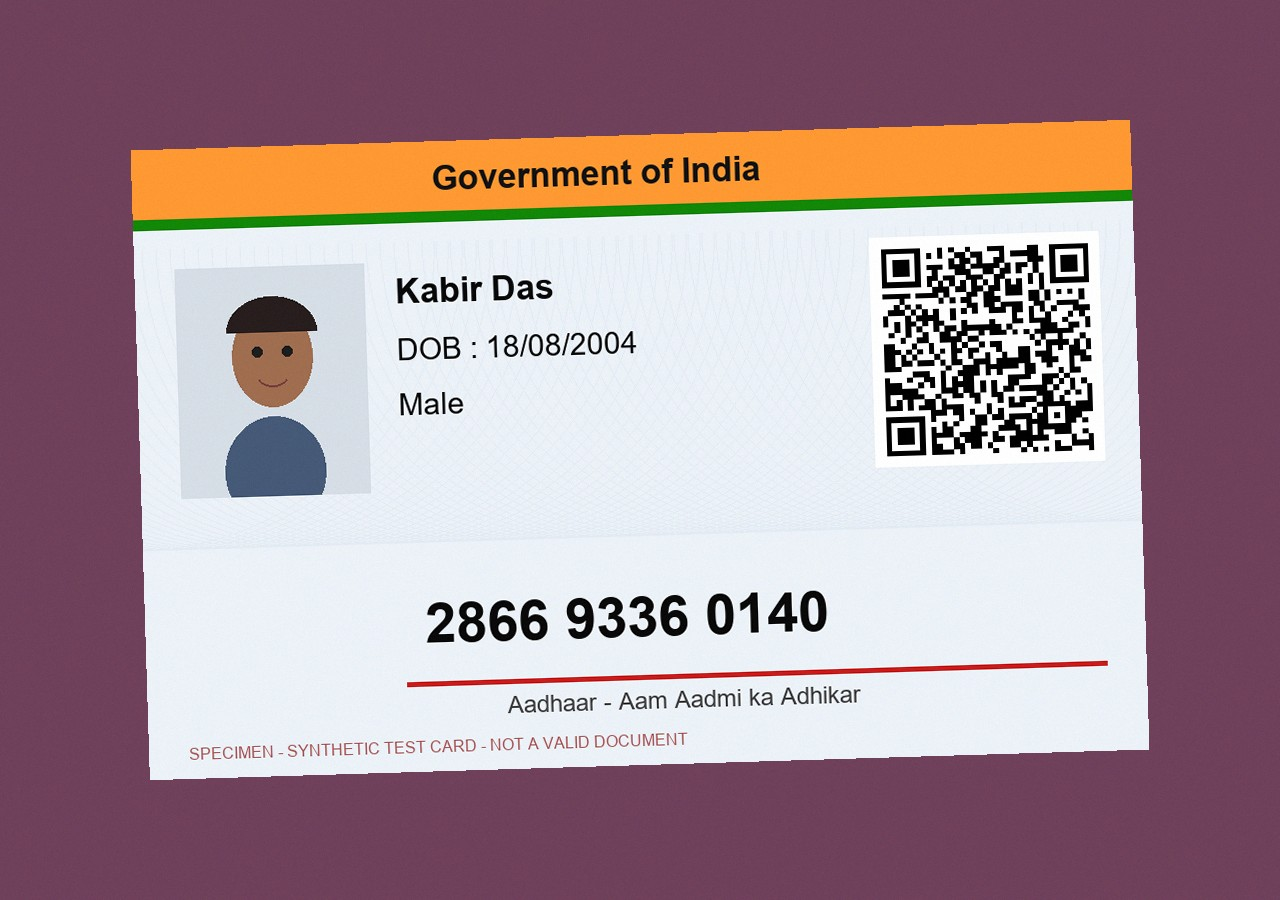
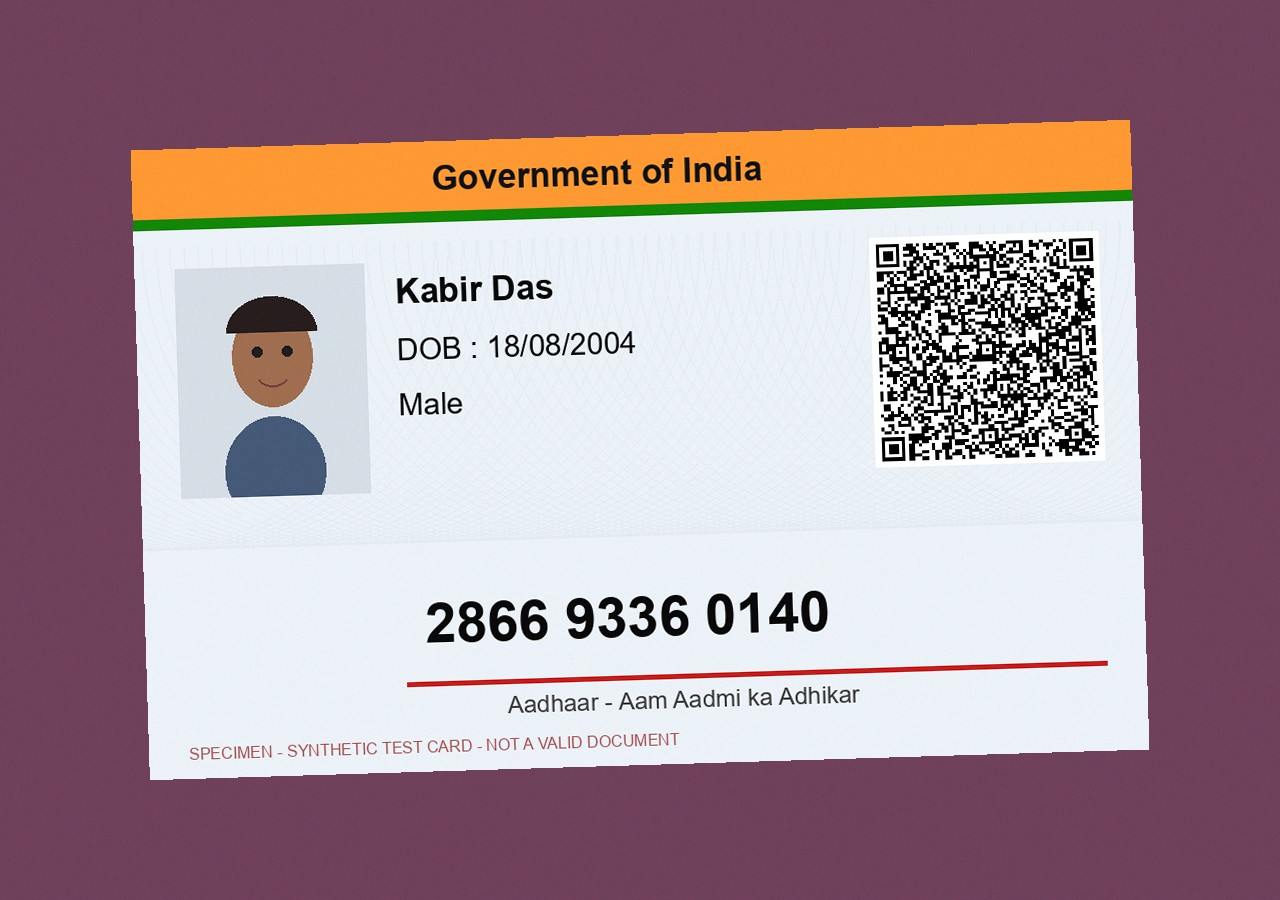
verify Aadhaar QR signatures, guard the organizer API, add async status
Secure QR signature verification never ran. Two reasons: the sample
generator emitted 256 zero bytes as a placeholder signature, and
parse_secure only extracted a signature when len(data) > text + 256,
so a photo-less payload never had one to check. The strongest signal
in the pipeline silently reported "not checked" on every case.

- scripts/make_dev_cert.py generates a dev signing key; the sample
  generator signs with it and UIDAI_CERT_PATH points at the cert, so
  the real verification path runs offline. Production swaps in UIDAI's
  certificate and these payloads correctly stop verifying.
- Fix the off-by-one so photo-less payloads are verified.
- A test proves an edited payload fails verification.

Turning verification on exposed a false positive: Tesseract read
"Arjun Ramesh" as "Cyl", and that garbage raised a critical
"name doesn't match QR" tamper signal against a genuine participant.
An unread field is now an extraction failure, not tamper evidence, and
a UIDAI-signed name outranks a low-confidence OCR read.

Also: ORGANIZER_KEY guards the review queue, case detail, artifacts,
metrics and audit log, which exposed every applicant's details with no
auth at all; and GET /v1/verifications/{id}/status lets an async caller
poll instead of depending on a webhook it may have missed.

diff --git a/app/api.py b/app/api.py
@@ -34,6 +34,7 @@ logging.basicConfig(level=logging.INFO, format="%(asctime)s %(levelname)s %(name
 log = logging.getLogger("trustgate")
 
 API_KEY = os.getenv("API_KEY", "").split("#")[0].strip()
+ORGANIZER_KEY = os.getenv("ORGANIZER_KEY", "").split("#")[0].strip()
 WEBHOOK_SECRET = os.getenv("WEBHOOK_SECRET", settings.hmac_secret)
 MAX_UPLOAD = 10 * 1024 * 1024
 STATIC = Path(__file__).parent / "static"
@@ -52,6 +53,18 @@ _pipeline_lock = threading.Semaphore(int(os.getenv("PIPELINE_CONCURRENCY", "2"))
 def require_key(x_api_key: str = Header(default="")) -> None:
     if API_KEY and not hmac.compare_digest(x_api_key, API_KEY):
         raise HTTPException(401, "Invalid or missing X-API-Key")
+
+
+def require_organizer(x_organizer_key: str = Header(default="")) -> None:
+    """Guard the organizer surface: the review queue, case detail, artifacts and audit log.
+
+    These expose every applicant's name, email, masked ID and ID photograph, so they are
+    the most sensitive endpoints in the service. Set ORGANIZER_KEY to require a header;
+    left unset the dashboard stays open, which is fine for a laptop demo and is not
+    acceptable once real participant data is loaded.
+    """
+    if ORGANIZER_KEY and not hmac.compare_digest(x_organizer_key, ORGANIZER_KEY):
+        raise HTTPException(401, "Invalid or missing X-Organizer-Key")
 
 
 DEFAULT_EVENTS = [
@@ -241,7 +254,7 @@ async def quality_check(image: UploadFile = File(...)):
     return quality.quick_check(data)
 
 
-@app.get("/v1/verifications")
+@app.get("/v1/verifications", dependencies=[Depends(require_organizer)])
 def list_verifications(event_id: str | None = None, decision: str | None = Query(None),
                        q: str | None = None, limit: int = 200):
     if decision and decision not in DECISIONS:
@@ -249,7 +262,29 @@ def list_verifications(event_id: str | None = None, decision: str | None = Query
     return db.list_verifications(event_id, decision, q, min(limit, 500))
 
 
-@app.get("/v1/verifications/{vid}")
+@app.get("/v1/verifications/{vid}/status", dependencies=[Depends(require_key)])
+def verification_status(vid: str):
+    """Poll an async verification.
+
+    async_mode=true returns 202 and then delivers the result by webhook. A caller that
+    cannot receive webhooks (a local integration, a retry after a missed delivery) had
+    no way to find out what happened; this closes that hole.
+
+    Guarded by the same key as /v1/verify, since it is part of the registration flow
+    rather than the organizer surface, and it returns the slim public payload only.
+    """
+    v = db.get_verification(vid)
+    if not v:
+        raise HTTPException(404, "Verification not found")
+    out = {"verification_id": vid, "status": v["status"]}
+    if v["status"] == "processing":
+        return out
+    result = v.get("result") or {}
+    return {**out, **_sanitize_for_json(_public({**result, "verification_id": vid,
+                                                 "event_id": v["event_id"]}))}
+
+
+@app.get("/v1/verifications/{vid}", dependencies=[Depends(require_organizer)])
 def get_verification(vid: str):
     v = db.get_verification(vid)
     if not v:
@@ -263,7 +298,7 @@ class ReviewIn(BaseModel):
     reviewer: str = "organizer"
 
 
-@app.post("/v1/verifications/{vid}/review")
+@app.post("/v1/verifications/{vid}/review", dependencies=[Depends(require_organizer)])
 def review(vid: str, body: ReviewIn):
     if body.decision not in DECISIONS:
         raise HTTPException(422, f"decision must be one of {DECISIONS}")
@@ -288,7 +323,8 @@ def erase(vid: str):
     return {"deleted": vid}
 
 
-@app.get("/v1/verifications/{vid}/artifacts/{name}", include_in_schema=False)
+@app.get("/v1/verifications/{vid}/artifacts/{name}", include_in_schema=False,
+         dependencies=[Depends(require_organizer)])
 def artifact(vid: str, name: str):
     # `name`/`vid` must be a bare filename with no directory component. Checking only for
     # "/" and ".." is not enough on Windows: an absolute path like "C:\\Windows\\win.ini" or
@@ -306,7 +342,7 @@ def artifact(vid: str, name: str):
 # ---------------------------------------------------------------------------
 # metrics
 # ---------------------------------------------------------------------------
-@app.get("/v1/metrics")
+@app.get("/v1/metrics", dependencies=[Depends(require_organizer)])
 def metrics(event_id: str | None = None):
     rows = db.list_verifications(event_id, None, None, 5000)
     done = [r for r in rows if r["status"] != "processing"]
@@ -338,7 +374,7 @@ def metrics(event_id: str | None = None):
     }
 
 
-@app.get("/v1/audit")
+@app.get("/v1/audit", dependencies=[Depends(require_organizer)])
 def audit_log(limit: int = 100):
     rows = db.conn().execute("SELECT * FROM audit_log ORDER BY id DESC LIMIT ?", (min(limit, 1000),)).fetchall()
     return [{k: r[k] for k in r.keys()} for r in rows]

diff --git a/app/pipeline/orchestrator.py b/app/pipeline/orchestrator.py
@@ -29,6 +29,10 @@ from app.providers.ocr import get_ocr
 log = logging.getLogger(__name__)
 PIPELINE_VERSION = "1.0.0"
 
+# Below this OCR confidence the printed name is treated as unread rather than as a
+# different name, so a bad read can never masquerade as tampering.
+NAME_OCR_MIN_CONFIDENCE = 0.5
+
 
 @dataclass
 class Applicant:
@@ -174,11 +178,20 @@ def _validity_signals(ex: extraction.Extracted, qr) -> list[Signal]:
                     sig.append(Signal("aadhaar_qr_number", "tamper", "pass", 0.95,
                                       "Printed Aadhaar number matches the QR code.", weight=1.0))
         if qr and qr.name and ex.name.value:
-            s, _ = identity.name_similarity(qr.name, ex.name.value)
-            if s < 70:
-                sig.append(Signal("aadhaar_qr_name", "tamper", "critical", 0.05,
-                                  f"Name printed on the card (“{ex.name.value}”) doesn't match the QR code "
-                                  f"(“{qr.name}”).", weight=2.5))
+            # Only compare when the printed name was actually read. A garbled OCR result
+            # ("Cyl" for "Arjun Ramesh") is an extraction failure, not evidence that the
+            # card was edited, and must never raise a critical tamper signal on a genuine
+            # participant. Below the threshold we say the check couldn't run.
+            if ex.name.confidence < NAME_OCR_MIN_CONFIDENCE or len(ex.name.value.strip()) < 4:
+                sig.append(Signal("aadhaar_qr_name", "tamper", "info", 0.6,
+                                  "The printed name couldn't be read clearly, so it wasn't compared with the "
+                                  "QR code. The signed QR name is used instead.", weight=0.3))
+            else:
+                s, _ = identity.name_similarity(qr.name, ex.name.value)
+                if s < 70:
+                    sig.append(Signal("aadhaar_qr_name", "tamper", "critical", 0.05,
+                                      f"Name printed on the card (“{ex.name.value}”) doesn't match the QR code "
+                                      f"(“{qr.name}”).", weight=2.5))
         if qr is None:
             sig.append(Signal("aadhaar_qr_match", "tamper", "info", 0.6,
                               "Aadhaar QR code not readable in this photo, so printed details couldn't be "
@@ -304,8 +317,15 @@ def verify(vid: str, event: rules.EventConfig, applicant: Applicant, id_image: b
     qr = aadhaar_qr.read(bgr) if ex.doc_type in ("AADHAAR", "UNKNOWN") else None
     if qr and ex.doc_type == "UNKNOWN":
         ex.doc_type, ex.doc_type_confidence = "AADHAAR", 0.8
-    if qr and not ex.name.value and qr.name:
-        ex.name = extraction.Field(qr.name, 0.85, f"aadhaar_qr_{qr.kind}")
+    # A UIDAI-signed name outranks OCR: the signature proves the QR wasn't edited, while
+    # the printed name is whatever Tesseract managed to read off a phone photo. Comparing
+    # the form name against the signed name is also a stronger identity check than
+    # comparing it against the print, and it still catches an edited printed name.
+    if qr and qr.name and (not ex.name.value or (qr.signature_verified
+                                                 and ex.name.confidence < NAME_OCR_MIN_CONFIDENCE)):
+        signed = qr.signature_verified is True
+        ex.name = extraction.Field(qr.name, 0.95 if signed else 0.85,
+                                   f"aadhaar_qr_{qr.kind}{'_signed' if signed else ''}")
     t = lap("qr", t)
 
     # 5. DOB resolution + validators ------------------------------------------------------

diff --git a/app/pipeline/aadhaar_qr.py b/app/pipeline/aadhaar_qr.py
@@ -19,9 +19,16 @@ from xml.etree import ElementTree as ET
 import cv2
 import numpy as np
 
-from app.config import settings
+from app.config import ROOT, settings
 
 log = logging.getLogger(__name__)
+
+# Development-only Secure QR signing material, created by scripts/make_dev_cert.py.
+# Never used in production: there UIDAI_CERT_PATH points at UIDAI's own certificate,
+# and these dev-signed payloads correctly fail to verify.
+DEV_CERT_DIR = ROOT / "dev_certs"
+DEV_KEY_PATH = DEV_CERT_DIR / "uidai_dev_key.pem"
+DEV_CERT_PATH = DEV_CERT_DIR / "uidai_dev_cert.pem"
 
 SECURE_FIELDS = ["email_mobile_indicator", "reference_id", "name", "dob", "gender", "care_of",
                  "district", "landmark", "house", "location", "pincode", "post_office", "state",
@@ -133,7 +140,10 @@ def parse_secure(payload: str) -> AadhaarQR | None:
     # locate where text fields end, the remainder is photo + (optional hashes) + signature
     text_len = sum(len(p) + 1 for p in parts[: offset + n_fields])
     tail = data[text_len:]
-    signature = data[-256:] if len(data) > 256 + text_len else b""
+    # ">=", not ">": a payload carrying no photo is exactly text + 256 signature bytes.
+    # With a strict ">" the signature was never extracted for photo-less cards, so the
+    # strongest check in the pipeline silently reported "not checked".
+    signature = data[-256:] if len(data) >= 256 + text_len else b""
     photo = tail[:-256] if len(tail) > 256 else b""
     ref = fields.get("reference_id", "")
     dob = fields.get("dob", "")
@@ -174,13 +184,33 @@ def read(bgr: np.ndarray) -> AadhaarQR | None:
 
 
 # ---------------------------------------------------------------------------
-# Test helper: build an (unsigned) Secure-QR-format payload. Used by sample generator.
+# Test helper: build a Secure-QR-format payload. Used by the sample generator.
 # ---------------------------------------------------------------------------
+def _dev_sign(body: bytes) -> bytes:
+    """Sign a sample payload with the development key, if one has been generated.
+
+    Returns 256 zero bytes when no dev key exists, which is what the generator used
+    to emit unconditionally. Those payloads parse but never verify, so the signature
+    check stays "not checked" rather than reporting a false tamper.
+    """
+    if not DEV_KEY_PATH.exists():
+        return b"\x00" * 256
+    try:
+        from cryptography.hazmat.primitives import hashes, serialization
+        from cryptography.hazmat.primitives.asymmetric import padding
+
+        key = serialization.load_pem_private_key(DEV_KEY_PATH.read_bytes(), password=None)
+        return key.sign(body, padding.PKCS1v15(), hashes.SHA256())
+    except Exception as e:  # a broken dev key must not break sample generation
+        log.warning("Dev QR signing failed (%s); emitting an unsigned payload", e)
+        return b"\x00" * 256
+
+
 def build_secure_payload(name: str, dob: str, gender: str, last4: str, version: str = "V2") -> str:
     ref = f"{last4}20260101120000000"
     values = ["0", ref, name, dob, gender, "", "Bengaluru", "", "", "", "560034", "", "Karnataka", "", "", ""]
     body = b"\xff".join([version.encode()] + [v.encode() for v in values]) + b"\xff"
-    body += b"\x00" * 256  # placeholder signature (unsigned test payload)
+    body += _dev_sign(body)
     comp = zlib.compressobj(9, zlib.DEFLATED, 16 + zlib.MAX_WBITS)
     gz = comp.compress(body) + comp.flush()
     return str(int.from_bytes(gz, "big"))

diff --git a/scripts/make_dev_cert.py b/scripts/make_dev_cert.py
@@ -1,0 +1,74 @@
+"""Generate a development signing key for Aadhaar Secure QR payloads.
+
+The real Secure QR is signed by UIDAI, and TrustGate verifies that signature against
+the certificate at UIDAI_CERT_PATH. In production that is UIDAI's public certificate.
+
+Offline there is no way to produce a UIDAI-signed payload, so the sample generator
+used to emit 256 zero bytes where the signature belongs. That left the single
+strongest check in the pipeline permanently "not checked": the code was never
+executed, so a regression in it would have gone unnoticed.
+
+This script creates a self-signed *development* certificate. The sample generator
+signs its payloads with the matching private key, and pointing UIDAI_CERT_PATH at
+the certificate makes the real verification path run end to end.
+
+    python scripts/make_dev_cert.py
+
+The key never leaves this machine and is git-ignored. Swap UIDAI_CERT_PATH for
+UIDAI's certificate in production and these dev-signed payloads stop verifying,
+which is exactly the intended behaviour.
+"""
+from __future__ import annotations
+
+import datetime as dt
+import sys
+from pathlib import Path
+
+ROOT = Path(__file__).resolve().parent.parent
+sys.path.insert(0, str(ROOT))
+
+from app.pipeline.aadhaar_qr import DEV_CERT_PATH, DEV_KEY_PATH  # noqa: E402
+
+
+def main() -> None:
+    from cryptography import x509
+    from cryptography.hazmat.primitives import hashes, serialization
+    from cryptography.hazmat.primitives.asymmetric import rsa
+    from cryptography.x509.oid import NameOID
+
+    DEV_KEY_PATH.parent.mkdir(parents=True, exist_ok=True)
+
+    # 2048-bit RSA with PKCS1v15 + SHA-256, matching the Secure QR signature format.
+    key = rsa.generate_private_key(public_exponent=65537, key_size=2048)
+    name = x509.Name([
+        x509.NameAttribute(NameOID.COMMON_NAME, "TrustGate DEV Secure QR signer - NOT UIDAI"),
+        x509.NameAttribute(NameOID.ORGANIZATION_NAME, "TrustGate development"),
+    ])
+    now = dt.datetime.now(dt.timezone.utc)
+    cert = (
+        x509.CertificateBuilder()
+        .subject_name(name)
+        .issuer_name(name)
+        .public_key(key.public_key())
+        .serial_number(x509.random_serial_number())
+        .not_valid_before(now - dt.timedelta(days=1))
+        .not_valid_after(now + dt.timedelta(days=3650))
+        .add_extension(x509.BasicConstraints(ca=False, path_length=None), critical=True)
+        .sign(key, hashes.SHA256())
+    )
+
+    DEV_KEY_PATH.write_bytes(key.private_bytes(
+        encoding=serialization.Encoding.PEM,
+        format=serialization.PrivateFormat.PKCS8,
+        encryption_algorithm=serialization.NoEncryption(),
+    ))
+    DEV_CERT_PATH.write_bytes(cert.public_bytes(serialization.Encoding.PEM))
+
+    print(f"wrote {DEV_KEY_PATH}")
+    print(f"wrote {DEV_CERT_PATH}")
+    print("\nSet this in .env to verify dev-signed sample QRs:")
+    print(f"  UIDAI_CERT_PATH={DEV_CERT_PATH.relative_to(ROOT).as_posix()}")
+
+
+if __name__ == "__main__":
+    main()

diff --git a/tests/test_core.py b/tests/test_core.py
@@ -4,6 +4,7 @@ import sys
 import tempfile
 from datetime import date
 from pathlib import Path
+import pytest
 
 _tmp = tempfile.mkdtemp()
 os.environ.setdefault("DATA_DIR", _tmp)
@@ -69,7 +70,33 @@ def test_secure_qr_roundtrip():
     payload = aadhaar_qr.build_secure_payload("Priya Sharma", "14-03-2002", "F", "4821")
     q = aadhaar_qr.parse_secure(payload)
     assert q and q.name == "Priya Sharma" and q.dob == "14-03-2002" and q.last4 == "4821"
-    assert q.signature_verified is None  # no cert configured
+    # None when no certificate is configured, True when the dev cert is in use.
+    # False would mean a genuine payload failed verification, which must never happen.
+    assert q.signature_verified is not False
+
+
+@pytest.mark.skipif(not aadhaar_qr.DEV_KEY_PATH.exists(),
+                    reason="run scripts/make_dev_cert.py to exercise signature verification")
+def test_secure_qr_signature_detects_tampering():
+    """The signed QR is the anchor of the whole design, so prove it actually holds.
+
+    A forger who edits a field inside the payload cannot re-sign it, so verification
+    must fail even though the edited payload still parses cleanly.
+    """
+    import zlib
+
+    payload = aadhaar_qr.build_secure_payload("Priya Sharma", "14-03-2002", "F", "4821")
+    assert aadhaar_qr.parse_secure(payload).signature_verified is True
+
+    n = int(payload)
+    data = zlib.decompress(n.to_bytes((n.bit_length() + 7) // 8, "big"), 16 + zlib.MAX_WBITS)
+    tampered = data.replace(b"14-03-2002", b"14-03-1998")
+    comp = zlib.compressobj(9, zlib.DEFLATED, 16 + zlib.MAX_WBITS)
+    forged = str(int.from_bytes(comp.compress(tampered) + comp.flush(), "big"))
+
+    q = aadhaar_qr.parse_secure(forged)
+    assert q.dob == "14-03-1998"          # the edit is visible ...
+    assert q.signature_verified is False  # ... and the signature no longer holds
 
 
 def test_legacy_xml_qr():
